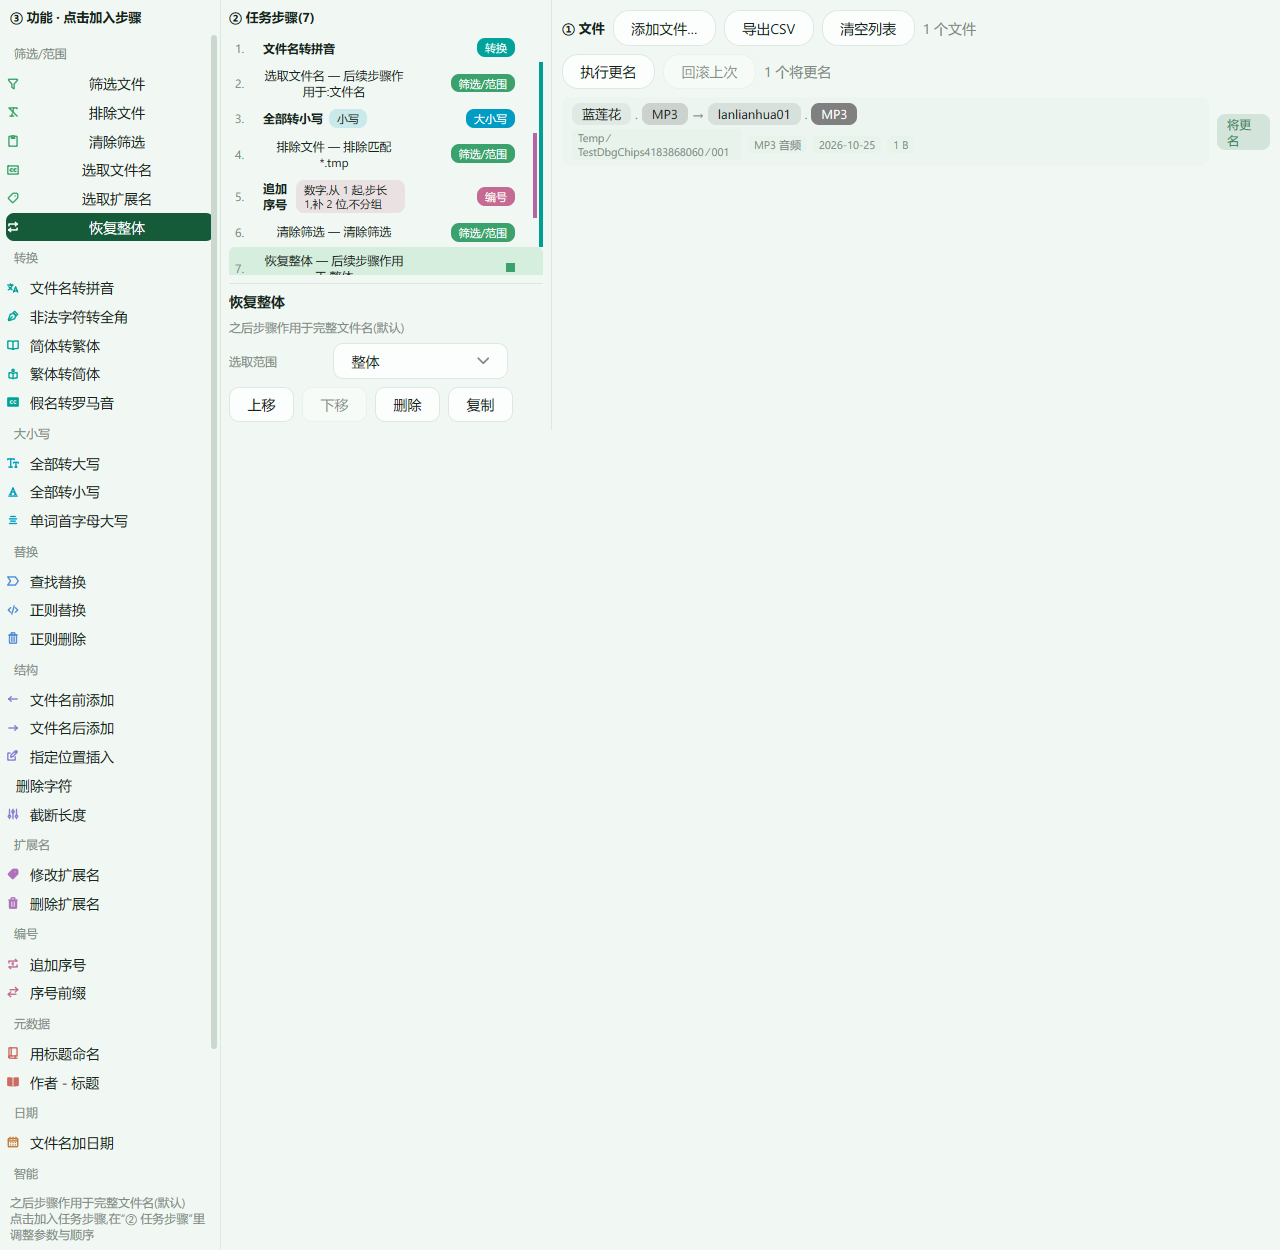
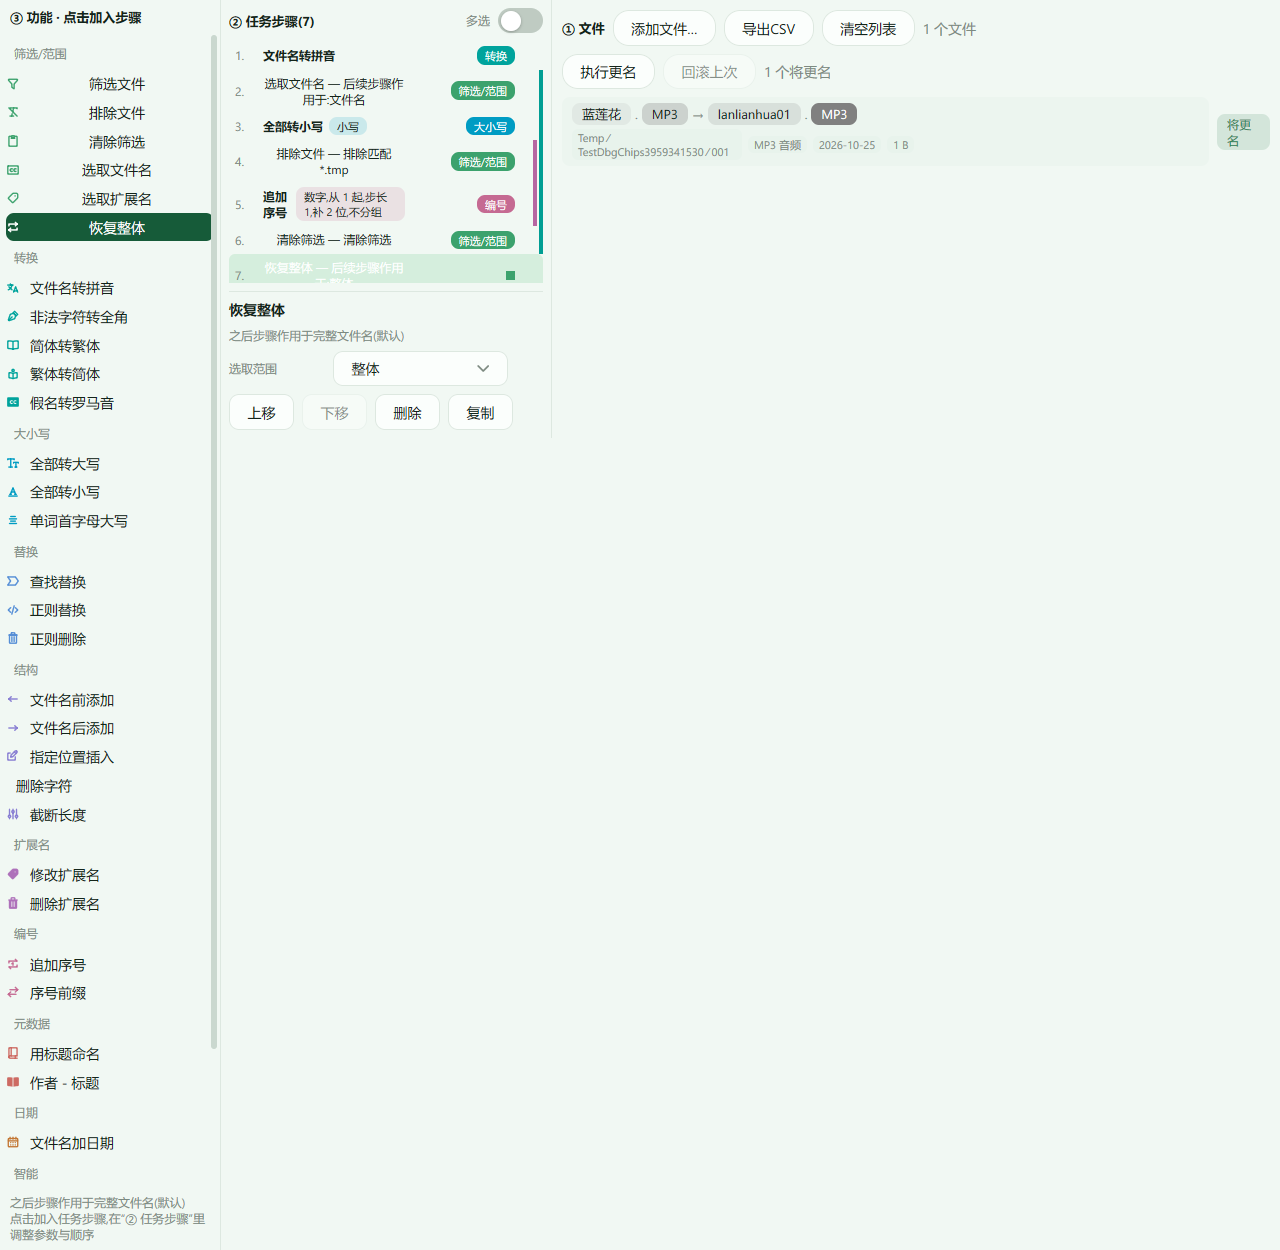
feat: 任务步骤多选模式——开关开启后多选/拖选/拖动整组重排(List 原生 Selection+DragSelect+Reorder)/批量删除; 步骤带稳定 uid 供选择键

Changed region(s): [[0.1562, 0.0, 0.4375, 0.3432], [0.5, 0.0936, 0.5312, 0.1248]]

diff --git a/gui/main.go b/gui/main.go
@@ -6,6 +6,7 @@ import (
 	"math"
 	"os"
 	"path/filepath"
+	"sort"
 	"strings"
 	"time"
 
@@ -43,11 +44,14 @@ type app struct {
 	confirmClear bool                // 清空列表 needs a second click
 	saveErr      string              // settings dialog save error, shown in-dialog
 
-	steps    []guiRule // ordered task steps
-	stepSel  int       // selected step, -1 = none
-	stepList ui.ListState
-	palSel   string // last catalog op added, highlighted in the list
-	palHint  string // hovered/selected catalog entry's explanation
+	steps      []guiRule // ordered task steps
+	stepSel    int       // selected step, -1 = none
+	stepList   ui.ListState
+	palSel     string            // last catalog op added, highlighted in the list
+	stepsMulti bool              // 多选模式
+	stepUID    int               // 自增步骤身份
+	chosen     ui.Selection[int] // multi-selected step uids
+	palHint    string            // hovered/selected catalog entry's explanation
 
 	splitL, splitM float32 // pane divider positions
 	table          ui.ListState
@@ -150,6 +154,8 @@ func (a *app) catalogView(c *ui.Context) {
 						default:
 							r := d.make()
 							r.opID, r.opLabel, r.opDesc, r.opFlow, r.opGroup = d.id, d.label, d.desc, d.flow, d.group
+							a.stepUID++
+							r.opUID = a.stepUID
 							a.steps = append(a.steps, r)
 							a.stepSel = len(a.steps) - 1
 							a.palSel = d.id
@@ -213,7 +219,16 @@ func (a *app) stepsView(c *ui.Context) {
 		a.stepSel = len(a.steps) - 1
 	}
 	ui.Column(c).Fill().Gap(8).Padding(8).Children(func() {
-		ui.Text(c, fmt.Sprintf("② 任务步骤(%d)", len(a.steps))).Bold().FontSize(13)
+		ui.Row(c).Gap(8).AlignItems(ui.Center).Children(func() {
+			ui.Text(c, fmt.Sprintf("② 任务步骤(%d)", len(a.steps))).Bold().FontSize(13)
+			ui.Spacer(c)
+			// 文字也可点击,和开关等效
+			if ui.Text(c, "多选").FontSize(12).TextColor(t.TextMuted).Clicked() {
+				a.stepsMulti = !a.stepsMulti
+				a.chosen.Clear()
+			}
+			ui.Switch(c, &a.stepsMulti)
+		})
 		// 选中行自绘浅色底(Selection),不用 List 的深 Accent 绘制:
 		// 选中时行内的彩色胶囊必须保持可读
 		if len(a.steps) == 0 {
@@ -221,6 +236,18 @@ func (a *app) stepsView(c *ui.Context) {
 		} else {
 			dt := a.currentTheme()
 			bars := a.stepRangeBars(dt)
+			a.stepList.Key = func(i int) any { return a.steps[i].opUID }
+			a.stepList.Selected = nil
+			a.stepList.Selection = nil
+			a.stepList.Reorder = nil
+			if a.stepsMulti {
+				a.stepList.Selection = &a.chosen
+				a.stepList.Reorder = func(rows []int, to int) {
+					a.moveSteps(rows, to)
+				}
+			} else {
+				a.stepList.Selected = &a.stepSel
+			}
 			ui.List(c, &a.stepList, len(a.steps), func(i int) {
 				s := a.steps[i]
 				cat := dt.groupColor(s.opGroup)
@@ -275,8 +302,22 @@ func (a *app) stepsView(c *ui.Context) {
 				})
 			}).Gap(0).Grow(1) // 行相接,范围竖线连续;行距由行内 Padding 提供
 		}
+		// 多选模式:批量操作替代单步参数区
+		if a.stepsMulti {
+			n := a.chosen.Len()
+			ui.Divider(c)
+			ui.Row(c).Gap(8).AlignItems(ui.Center).Children(func() {
+				ui.Text(c, fmt.Sprintf("已选 %d 步", n)).Bold()
+				if ui.Button(c, "删除所选").Radius(16).Disabled(n == 0).Clicked() {
+					a.deleteChosen()
+				}
+				if ui.Button(c, "全不选").Radius(16).Disabled(n == 0).Clicked() {
+					a.chosen.Clear()
+				}
+			})
+		}
 		// detail of the selected step
-		if a.stepSel >= 0 && a.stepSel < len(a.steps) {
+		if !a.stepsMulti && a.stepSel >= 0 && a.stepSel < len(a.steps) {
 			r := &a.steps[a.stepSel]
 			ui.Divider(c)
 			ui.Text(c, r.opLabel).Bold()
@@ -297,12 +338,66 @@ func (a *app) stepsView(c *ui.Context) {
 				}
 				if ui.Button(c, "复制").Clicked() {
 					cp := *r
+					a.stepUID++
+					cp.opUID = a.stepUID
 					a.steps = append(a.steps, cp)
 					a.stepSel = len(a.steps) - 1
 				}
 			})
 		}
 	})
+}
+
+// moveSteps is the List's Reorder callback: the user dragged rows (the
+// multi-selection, or a single row) to before index to.
+func (a *app) moveSteps(rows []int, to int) {
+	sort.Ints(rows)
+	moved := make([]guiRule, 0, len(rows))
+	kept := make([]guiRule, 0, len(a.steps))
+	shift := 0
+	isDragged := map[int]bool{}
+	for _, r := range rows {
+		isDragged[r] = true
+	}
+	for i, s := range a.steps {
+		if isDragged[i] {
+			moved = append(moved, s)
+			if i < to {
+				shift++
+			}
+			continue
+		}
+		kept = append(kept, s)
+	}
+	at := to - shift
+	if at < 0 {
+		at = 0
+	}
+	if at > len(kept) {
+		at = len(kept)
+	}
+	out := append(kept[:at:at], moved...)
+	out = append(out, kept[at:]...)
+	a.steps = out
+}
+
+// deleteChosen removes every multi-selected step.
+func (a *app) deleteChosen() {
+	drop := map[int]bool{}
+	for uid := range a.chosen.All() {
+		drop[uid] = true
+	}
+	kept := a.steps[:0]
+	for _, s := range a.steps {
+		if drop[s.opUID] {
+			continue
+		}
+		kept = append(kept, s)
+	}
+	n := len(a.steps) - len(kept)
+	a.steps = kept
+	a.chosen.Clear()
+	a.status = fmt.Sprintf("已删除 %d 个步骤", n)
 }
 
 func (a *app) swapSteps(i, j int) {

diff --git a/gui/main_test.go b/gui/main_test.go
@@ -19,6 +19,8 @@ func newTestFile(t *testing.T, name string) string {
 	return p
 }
 
+var testStepUID int
+
 func step(id string) guiRule {
 	d, ok := opByID(id)
 	if !ok {
@@ -27,6 +29,8 @@ func step(id string) guiRule {
 	r := d.make()
 	r.opID, r.opLabel = d.id, d.label
 	r.opDesc, r.opGroup, r.opFlow = d.desc, d.group, d.flow
+	testStepUID++
+	r.opUID = testStepUID
 	return r
 }
 
@@ -430,5 +434,55 @@ func TestExtColors(t *testing.T) {
 		if r := contrastRatio(c, dt.cardBgFor(false)); r < 1.15 {
 			t.Errorf("chip vs card contrast too low: %.2f", r)
 		}
+	}
+}
+
+// 多选模式:批量删除与拖动重排
+func TestStepsMultiMode(t *testing.T) {
+	a := &app{stepSel: -1, settings: defaultSettings()}
+	a.steps = []guiRule{step("pinyin"), step("scope.name"), step("case.lower"), step("truncate")}
+	for i := range a.steps {
+		a.stepUID++
+		a.steps[i].opUID = a.stepUID
+	}
+	a.stepsMulti = true
+	// select steps 1 (pinyin) and 3 (truncate) by uid
+	a.chosen.Add(a.steps[0].opUID)
+	a.chosen.Add(a.steps[2].opUID)
+
+	tt := ui.NewTester(a.view, 1280, 800)
+	if !tt.HasText("已选 2 步") {
+		t.Error("多选面板未显示")
+	}
+	tt.Frame() // 物化当前帧,避免点击落在首帧构建中途
+	// batch delete
+	if err := tt.Click("删除所选"); err != nil {
+		t.Fatal(err)
+	}
+	tt.Frame()
+	if len(a.steps) != 2 || a.chosen.Len() != 0 {
+		t.Fatalf("batch delete: steps=%d chosen=%d", len(a.steps), a.chosen.Len())
+	}
+	if a.steps[0].opLabel != "选取文件名" || a.steps[1].opLabel != "截断长度" {
+		t.Fatalf("wrong survivors: %s, %s", a.steps[0].opLabel, a.steps[1].opLabel)
+	}
+}
+
+// moveSteps is the Reorder callback: dragged rows land before `to`.
+func TestMoveSteps(t *testing.T) {
+	a := &app{stepSel: -1, settings: defaultSettings()}
+	a.steps = []guiRule{step("pinyin"), step("sanitize"), step("case.lower"), step("truncate")}
+	// drag rows 0 and 1 to before index 4 (end)
+	a.moveSteps([]int{0, 1}, 4)
+	want := []string{"全部转小写", "截断长度", "文件名转拼音", "非法字符转全角"}
+	for i, w := range want {
+		if a.steps[i].opLabel != w {
+			t.Fatalf("move end: %d got %s want %s", i, a.steps[i].opLabel, w)
+		}
+	}
+	// drag row 3 (非法字符转全角) back to index 0
+	a.moveSteps([]int{3}, 0)
+	if a.steps[0].opLabel != "非法字符转全角" {
+		t.Fatalf("move to front: %s", a.steps[0].opLabel)
 	}
 }

diff --git a/gui/dbg52_test.go b/gui/dbg52_test.go
@@ -1,0 +1,48 @@
+package main
+
+import (
+	"image"
+	"image/png"
+	"os"
+	"testing"
+
+	"github.com/egoist/mygo/ui"
+)
+
+func TestDbgMulti(t *testing.T) {
+	a := &app{stepSel: -1, settings: defaultSettings()}
+	a.files = []fileInfo{statFile(newTestFile(t, "x.flac"))}
+	tt := ui.NewTester(a.view, 1280, 800)
+	// add three steps
+	for _, l := range []string{"文件名转拼音", "选取文件名", "全部转小写"} {
+		if err := tt.Click(l); err != nil {
+			t.Fatal(err)
+		}
+		tt.Frame()
+	}
+	// turn on multi-select
+	if err := tt.Click("多选"); err != nil {
+		t.Fatal(err)
+	}
+	tt.Frame()
+	// click two step rows to select them (List with Selection: rows choose on click)
+	if err := tt.Click("1. 文件名转拼音"); err != nil {
+		t.Log("click row1:", err)
+	}
+	tt.Frame()
+	if err := tt.Click("2. 选取文件名"); err != nil {
+		t.Log("click row2:", err)
+	}
+	tt.Frame()
+	t.Logf("chosen=%d", a.chosen.Len())
+	img := tt.Image()
+	crop := image.NewRGBA(image.Rect(0, 0, 360, 300))
+	for y := 0; y < 300; y++ {
+		for x := 0; x < 360; x++ {
+			crop.Set(x, y, img.At(215+x, 28+y))
+		}
+	}
+	f, _ := os.Create("dbg-multi.png")
+	png.Encode(f, crop)
+	f.Close()
+}

diff --git a/gui/rules_editor.go b/gui/rules_editor.go
@@ -12,6 +12,7 @@ import (
 // core.ParseRules — the same engine as the CLI.
 type guiRule struct {
 	opID, opLabel, opDesc string
+	opUID                 int    // step identity for stable multi-selection
 	opFlow                bool   // 流程控制步骤:在任务列表里以居中区分
 	opGroup               string // catalog group, for the category chip
 	kind                  string // label of the rule type, for spec()
